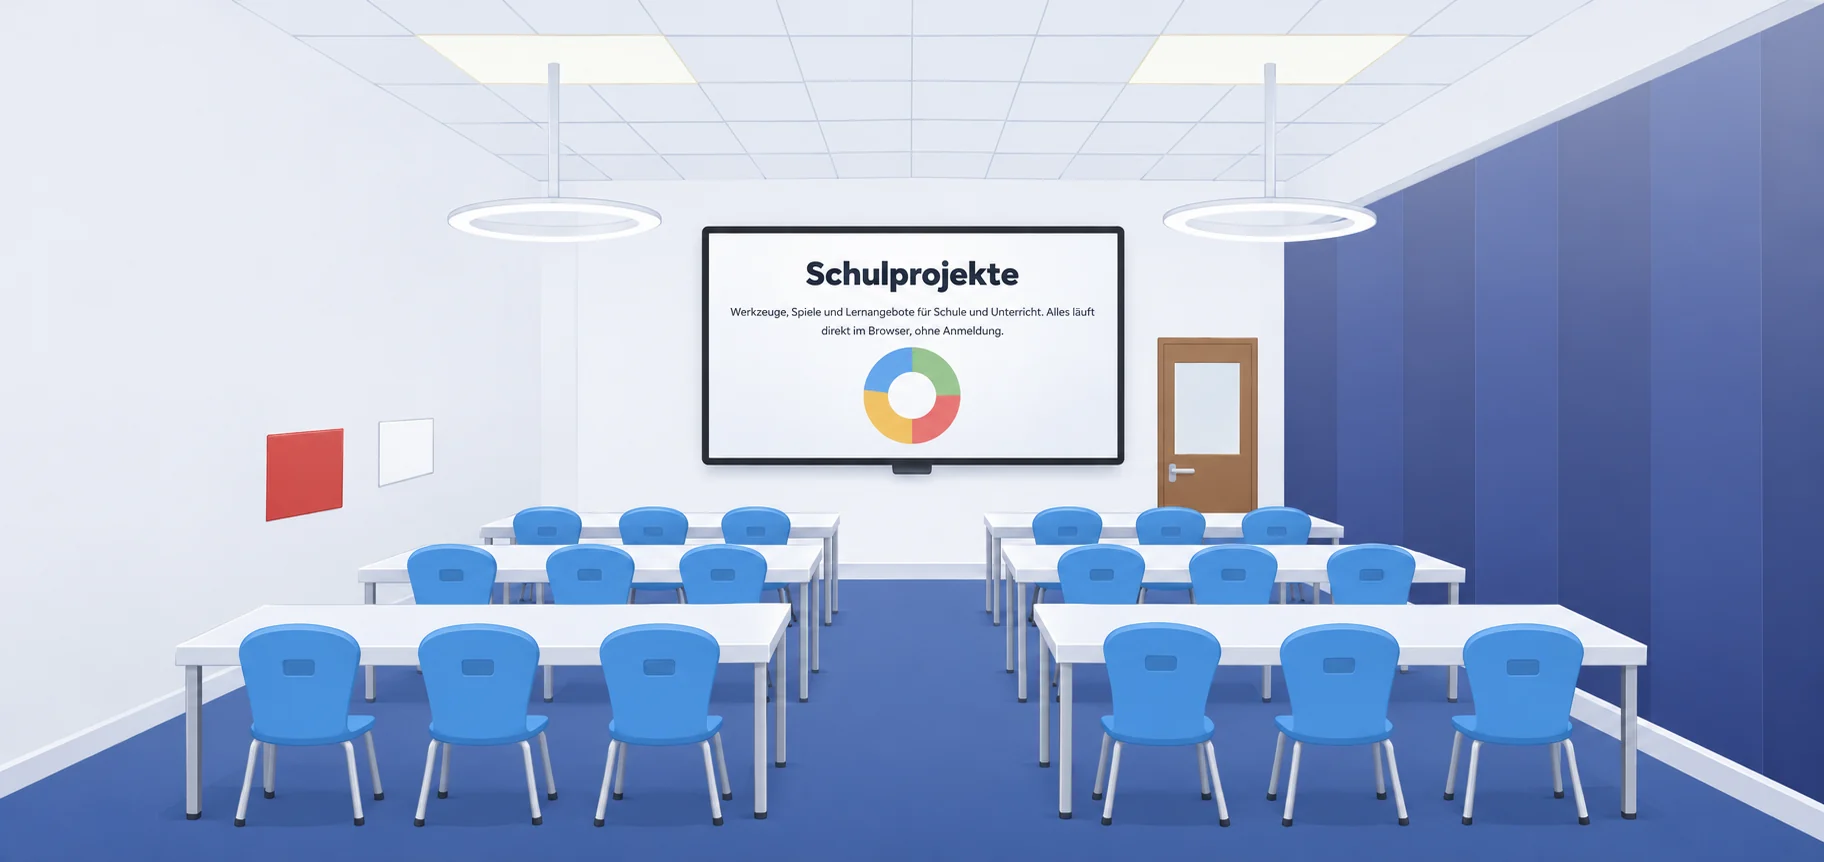
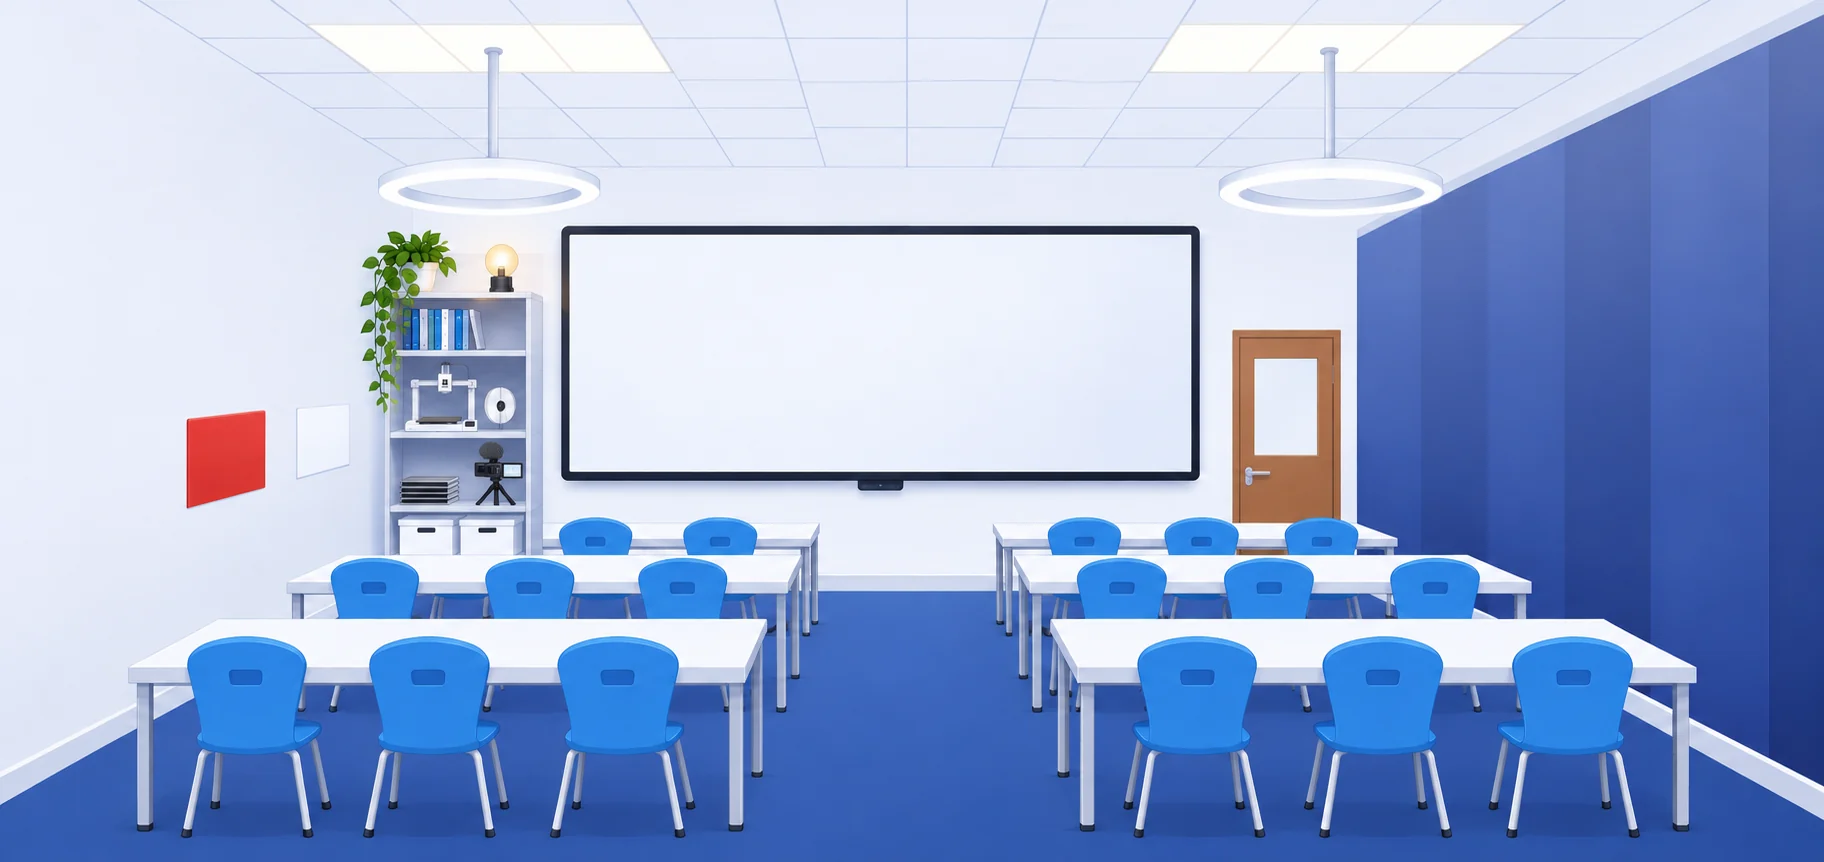
Neues Klassenzimmerbild, Kategorien auf der Tafel
Claude-Session: https://claude.ai/code/session_01FYG53WkRgr1bqh4uzzS5rS

diff --git a/index.html b/index.html
@@ -30,10 +30,33 @@ a.tile:hover{transform:translateY(-2px);border-color:#b9c9e4;box-shadow:0 10px 2
 footer{margin-top:40px;color:var(--muted);font-size:13px}
 
 body.home{background:#e7ebf0;min-height:100vh}
+/* Bild 1824x862 (Verhaeltnis 2.116). --sw/--sh = gerenderte Bildgroesse bei "cover" */
+.home{--sw:max(100vw,211.6vh);--sh:max(100vh,47.26vw)}
 .roombg{position:fixed;inset:0;z-index:-2;background:#e7ebf0 url(bilder/klassenzimmer.webp) center/cover no-repeat}
 .home header{position:absolute;width:1px;height:1px;overflow:hidden;clip:rect(0 0 0 0);white-space:nowrap;margin:0}
-.home .wrap{padding-block:calc(max(54vh,50vh + 1.9vw) + 3vh) 56px}
-.home .tile{box-shadow:0 18px 36px -20px rgba(20,35,70,.6);border-color:rgba(255,255,255,.9);background:rgba(255,255,255,.94)}
+.home .wrap{max-width:none;padding:0}
+/* Tafel-Innenflaeche im Bild: x 570-1190, y 234-474 */
+.home .board{position:fixed;margin:0;
+  left:calc(50vw + var(--sw)*(570/1824 - .5));top:calc(50vh + var(--sh)*(234/862 - .5));
+  width:calc(var(--sw)*620/1824);height:calc(var(--sh)*240/862);
+  container-type:size;display:grid;grid-template-columns:repeat(3,1fr);gap:calc(var(--sw)*.0085);padding:calc(var(--sw)*.0095)}
+.home .tile>*{flex-shrink:0}
+.home .tile{gap:1.2cqw;padding:2.4cqw 2.4cqw 2.2cqw;border-radius:1.8cqw;background:#fff;border:1px solid #dfe5ec;box-shadow:0 1.2cqw 2.6cqw -1.6cqw rgba(20,35,70,.45);min-height:0;overflow:hidden}
+.home .ico{width:6.6cqw;height:6.6cqw;border-radius:1.6cqw}
+.home .ico svg{width:3.8cqw;height:3.8cqw}
+.home .tile h2{font-size:3.5cqw;line-height:1.1}
+.home .tile p{font-size:1.95cqw;line-height:1.35}
+.home .go{font-size:2.15cqw}
+@container (max-width:470px){.home .tile p{display:none}.home .tile h2{font-size:4.2cqw}.home .go{font-size:2.8cqw}}
+/* Hochkant / kleine Bildschirme: Tafel als eigenes Element */
+@media (max-width:700px),(max-height:480px),(max-aspect-ratio:1/1){
+  .roombg{background-position:center top}
+  .home .board{position:static;width:auto;height:auto;container-type:normal;grid-template-columns:1fr;gap:12px;padding:16px;
+    margin:max(22vh,120px) auto 32px;max-width:min(92vw,520px);background:#fbfcfd;border:9px solid #23262c;border-radius:10px;box-shadow:0 24px 50px -24px rgba(20,35,70,.7)}
+  .home .tile{gap:8px;padding:16px;border-radius:14px;box-shadow:none}
+  .home .ico{width:44px;height:44px;border-radius:12px}.home .ico svg{width:24px;height:24px}
+  .home .tile h2{font-size:20px}.home .tile p{font-size:14px;display:block}.home .go{font-size:15px}
+}
 </style>
 </head>
 <body class="home">
@@ -43,7 +66,7 @@ body.home{background:#e7ebf0;min-height:100vh}
     <h1>Schulprojekte</h1>
     <p>Werkzeuge, Spiele und Lernangebote für Schule und Unterricht. Alles läuft direkt im Browser, ohne Anmeldung.</p>
   </header>
-  <main class="grid">
+  <main class="grid board">
     <a class="tile cat" href="tools/" style="--c:var(--t1);--cs:var(--t1s)">
       <span class="ico"><svg width="28" height="28" viewBox="0 0 24 24" fill="none" stroke="currentColor" stroke-width="1.9" stroke-linecap="round" stroke-linejoin="round" aria-hidden="true"><path d="M14.7 6.3a4 4 0 0 0-5.4 5.2L3.5 17.3a1.8 1.8 0 0 0 2.5 2.5l5.8-5.8a4 4 0 0 0 5.2-5.4l-2.4 2.4-2.3-.4-.4-2.3z"/></svg></span>
       <h2>Tools</h2>
